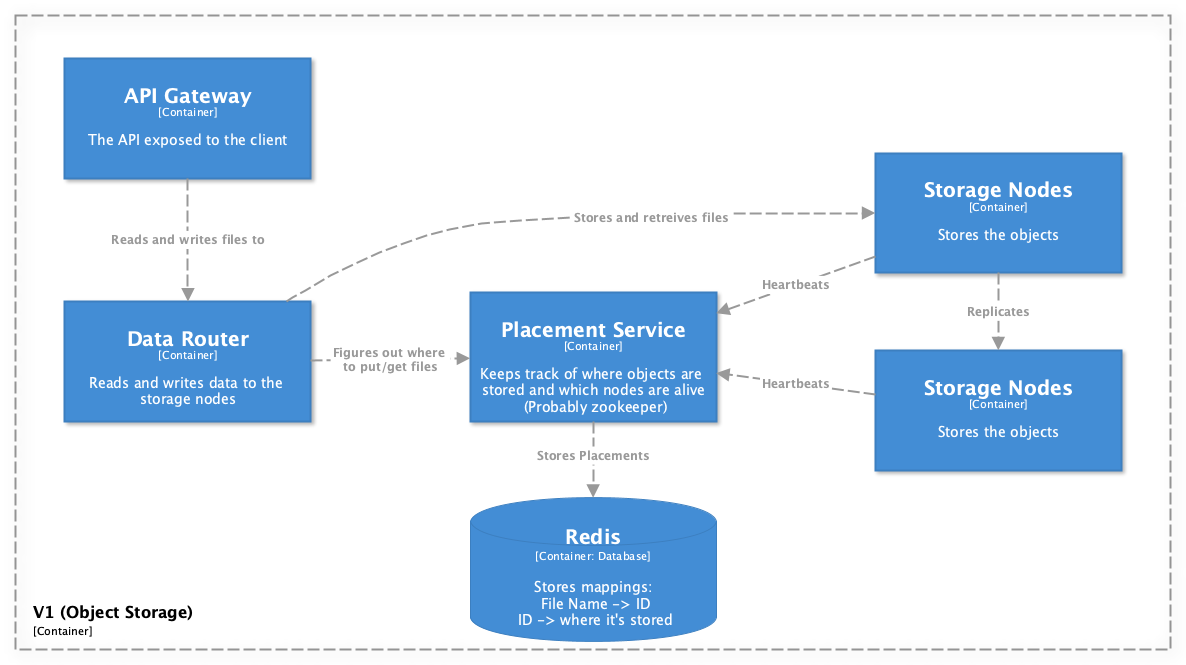
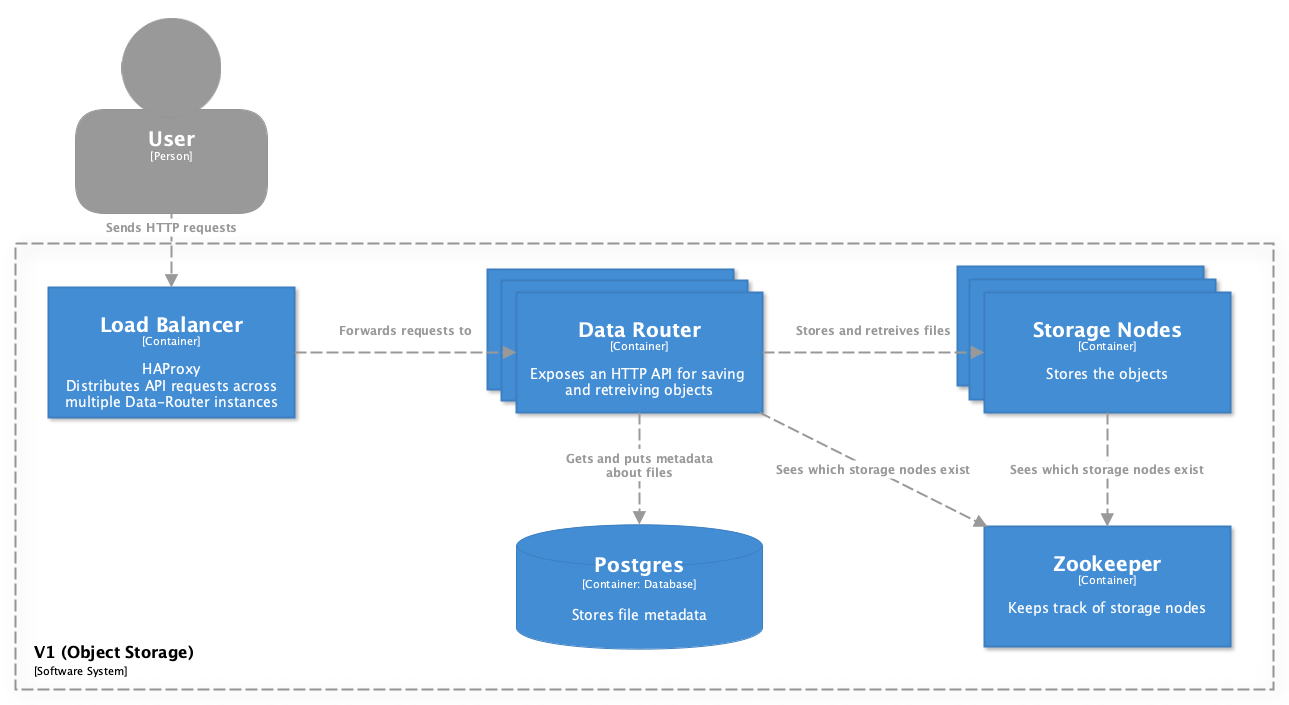
Updated V1 containers

diff --git a/Video Streaming Platform/group-v1/technologies.md b/Video Streaming Platform/group-v1/technologies.md
@@ -163,13 +163,13 @@
             </ol>
         </li>
     </ol>
-    <h3>Load Balancing with Nginx (Round Robin)</h3>
+    <h3>Load Balancing with HAProxy (Round Robin)</h3>
 <ol>
     <li><strong>Round Robin Method:</strong>
         <ol type="a">
-            <li><strong>Equitable Distribution:</strong> The Round Robin algorithm within Nginx operates by rotating through a list of available servers and distributing incoming client requests in a sequential manner. Each new request is sent to the next server in the list, and once the end of the list is reached, the algorithm cycles back to the first server. This cycle repeats continuously, ensuring that every server receives an equal number of requests over time.</li>
+            <li><strong>Equitable Distribution:</strong> The Round Robin algorithm within HAProxy operates by rotating through a list of available servers and distributing incoming client requests in a sequential manner. Each new request is sent to the next server in the list, and once the end of the list is reached, the algorithm cycles back to the first server. This cycle repeats continuously, ensuring that every server receives an equal number of requests over time.</li>
             <li><strong>Implementation Simplicity:</strong> One of the primary advantages of the Round Robin method is its simplicity. There is no need to keep track of the current load or capacity of each server; instead, requests are distributed based solely on the order of servers in the configuration file. This simplicity makes it an ideal choice for many load balancing scenarios, particularly when the servers are of similar capacity and load.</li>
-            <li><strong>Automatic Scalability:</strong> Adding or removing servers from the Nginx configuration automatically adjusts the Round Robin cycle. This adaptability is crucial for dynamic environments where the server pool might change due to scaling operations or maintenance tasks. The algorithm seamlessly accommodates these changes without requiring a reconfiguration of the load balancing logic.</li>
+            <li><strong>Automatic Scalability:</strong> Adding or removing servers from the HAProxy configuration automatically adjusts the Round Robin cycle. This adaptability is crucial for dynamic environments where the server pool might change due to scaling operations or maintenance tasks. The algorithm seamlessly accommodates these changes without requiring a reconfiguration of the load balancing logic.</li>
         </ol>
     </li>
     <li><strong>Benefits for Application Architecture:</strong>

diff --git a/Video Streaming Platform/group-v1/architecture.md b/Video Streaming Platform/group-v1/architecture.md
@@ -10,8 +10,8 @@
 
 ![Container diagram](./diagrams/containers.png)
 
-- API Gateway is the exposed API the other VSP groups will be using to access the data we store or give us data to store
-- Data Router will be routing data to the appropriate storage nodes and using the Placement Service to figure out where to store and get objects
-- The placement service will keep track of all the IDs of the videos and sub-keys for partitioned larger data. This will allow requests for a video to be found using its name to ID,
-  and then use all sub-keys to find parts and give each part in order.
-- The storage nodes are our servers in a Zookeeper Cluster that will replicate data, and store the objects in buckets. They will also be sharing their health data with other nodes.
+- Load balancer is used to distribute the load across multiple Data Router instances
+- Data Router exposes an HTTP API for users to store and retreive files. It communicates with the storage nodes to store and retrieve files
+- The storage nodes store the files and replecate files among themselves.
+- Zookeeper is used to manage the storage nodes and keep track of their health status. It is used by the nodes to know where to replecate files and when to rereplicate. It is used by the Data Router to know where to store files and where to retrieve them.
+- The Postgres database is used to store metadata about the files stored in the system. It is used by the Data Routers to keep track of the files that have been stored on the system
